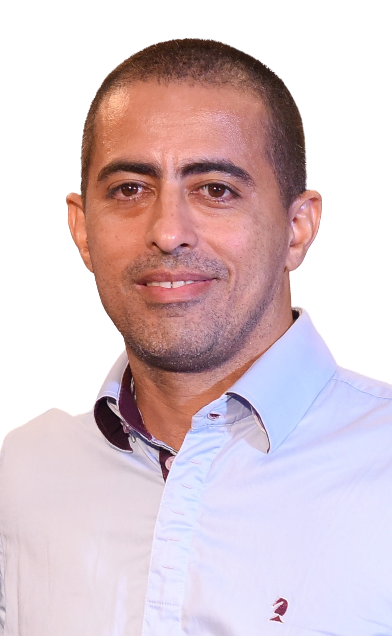
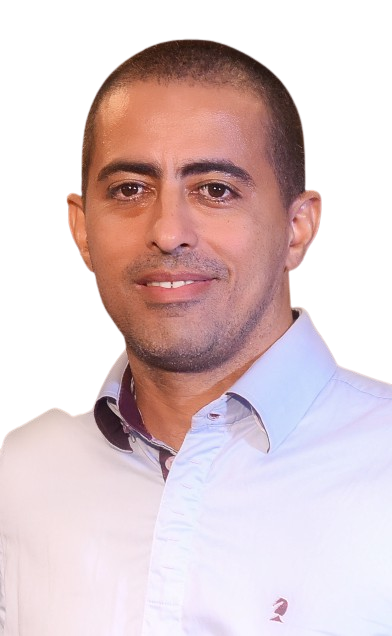
Adjusts in profile image

diff --git a/README.md b/README.md
@@ -1,5 +1,9 @@
-# 🔥 Responsive Portfolio Website Ansel
+# 🔥 Responsive Portfolio
+
+## Based on :
+
 ## [Watch it on youtube](https://youtu.be/oy8dSsK57Ps)
+
 ### 🔥 Responsive Portfolio Website
 
 - Responsive Portfolio Website Using HTML CSS & JavaScript
